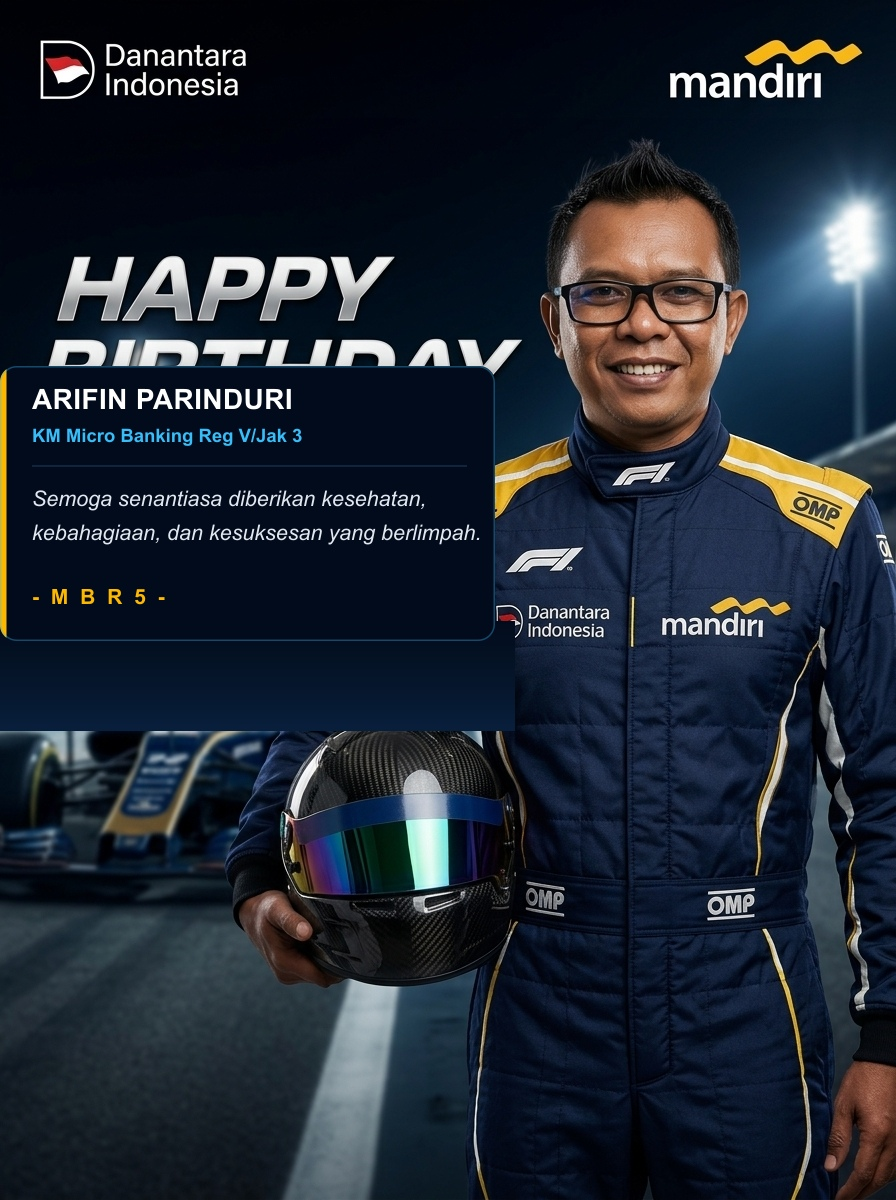
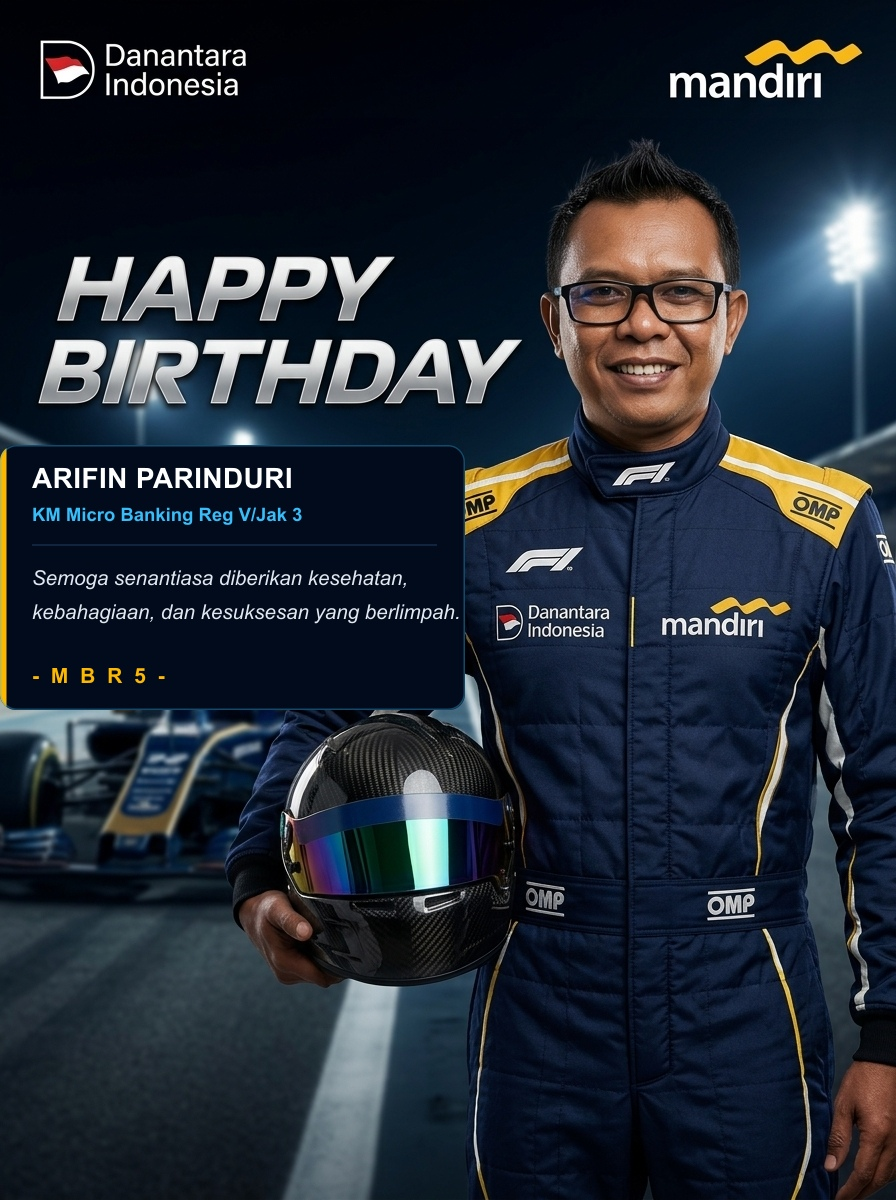
fix(cards): turunkan posisi kotak Arifin Parinduri agar tulisan HAPPY BIRTHDAY terlihat utuh dan tidak terpotong

Changed region(s): [[0.0, 0.2775, 0.5938, 0.6167]]

diff --git a/generate_indonesian_cards.js b/generate_indonesian_cards.js
@@ -187,14 +187,14 @@ const CARDS_THIS_WEEK = [
     baseFile: 'arifin_parinduri.jpg',
     name: 'ARIFIN PARINDURI',
     jabatan: 'KM Micro Banking Reg V/Jak 3',
-    boxTop: 366,
-    boxWidth: 495,
-    boxHeight: 275,
+    boxTop: 445,
+    boxWidth: 465,
+    boxHeight: 265,
     nameSize: 28,
     roleSize: 18.5,
-    wishSize: 21.5,
+    wishSize: 20.5,
     mbr5Size: 21,
-    eraseResidual: true,
+    eraseResidual: false,
     targets: ['EMP-0127.jpg', 'arifin_parinduri.jpg', 'nip_1085401321.jpg']
   },
   {
